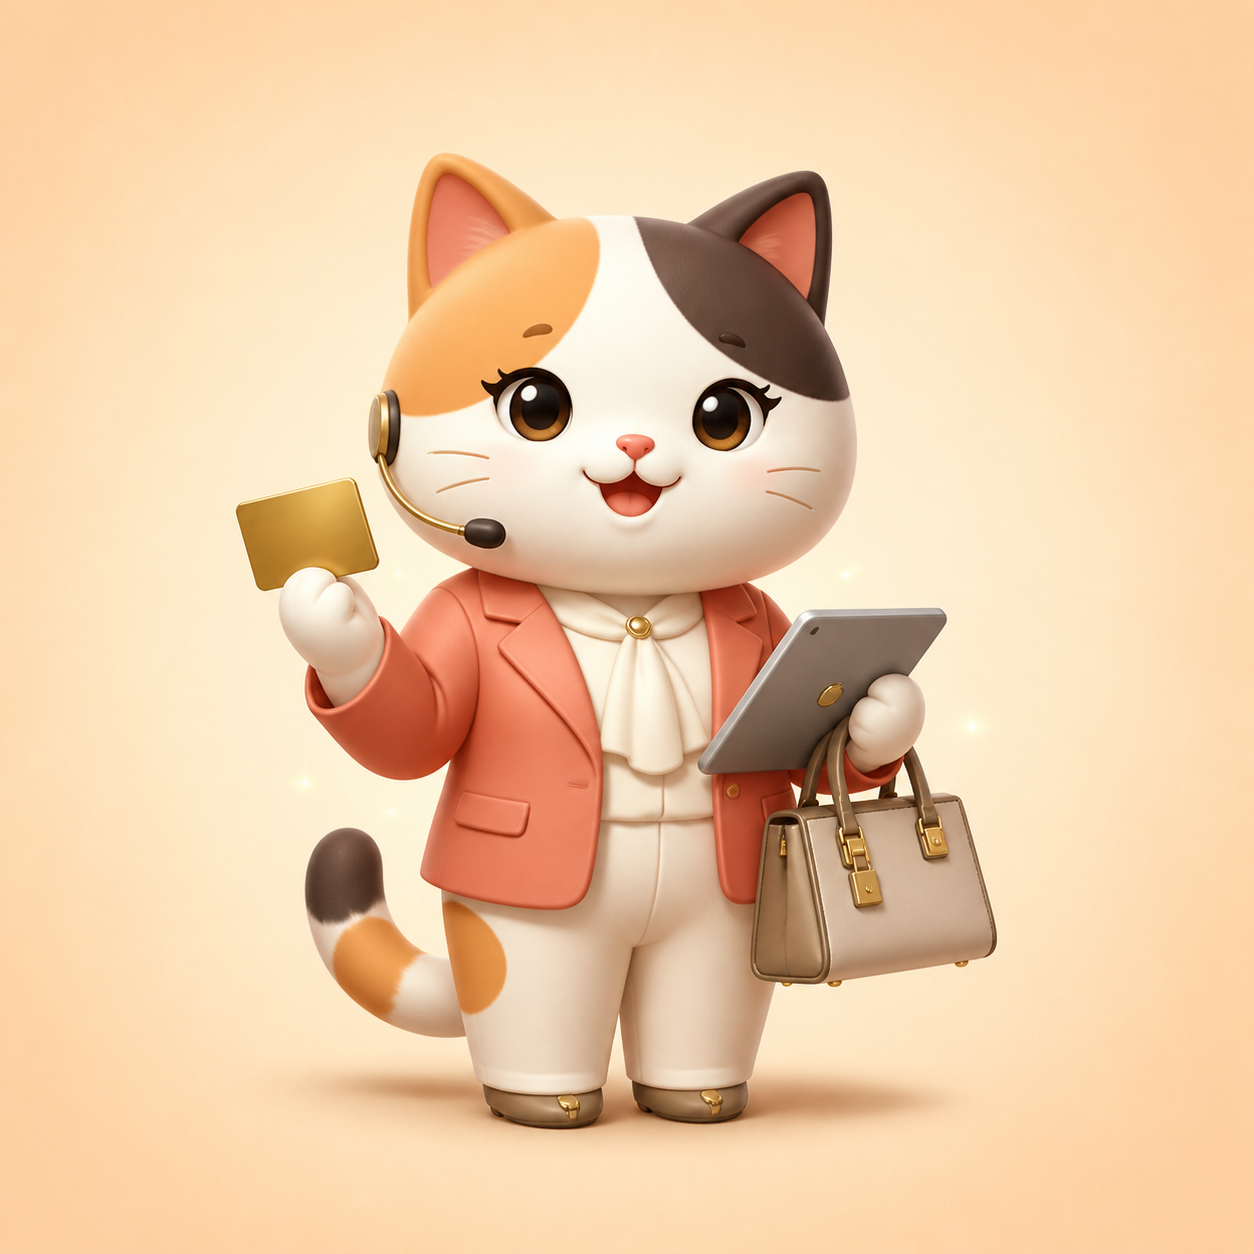
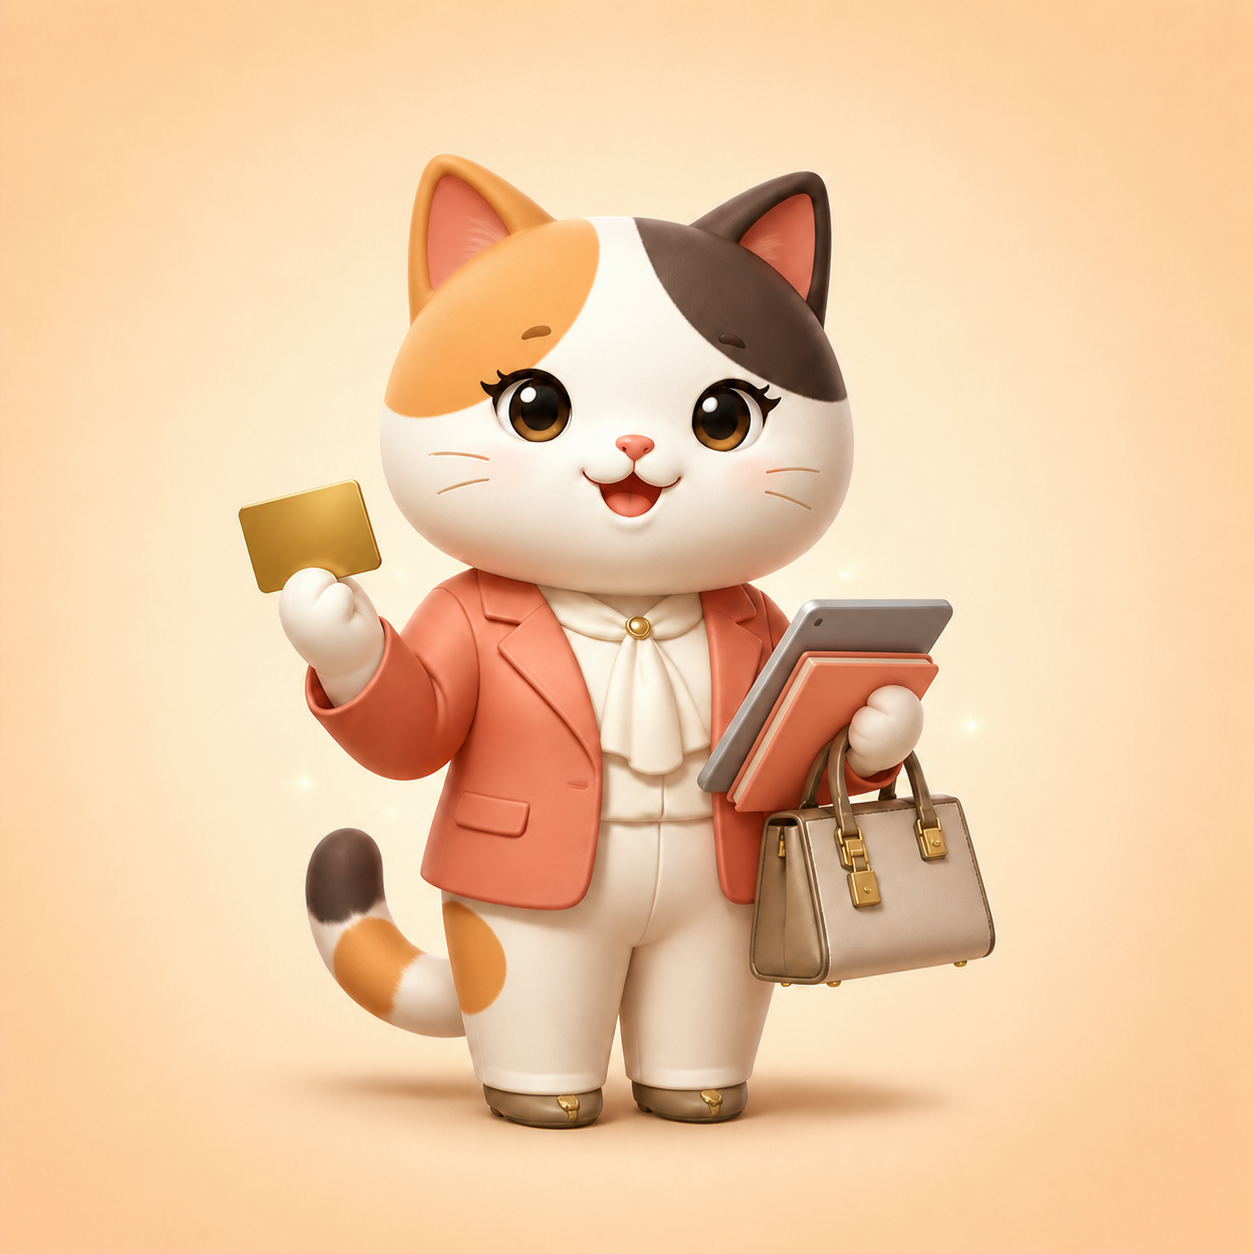
Add mascot collection and compact dashboard

diff --git a/files/index.html b/files/index.html
@@ -931,6 +931,24 @@ body{color:var(--text);background:linear-gradient(180deg,#f5f1ff 0%,#fff8f0 46%,
 .rank-evolution-char{display:block;width:100%;height:100%;object-fit:cover;border-radius:50%}
 .result-char-big .rank-evolution-char,.lvl-char .rank-evolution-char{border-radius:28px;box-shadow:0 12px 28px rgba(72,54,45,.13)}
 .step-char .rank-evolution-char{border-radius:16px}
+/* 메인 요약 영역을 압축해 핵심 메뉴가 첫 화면에 더 많이 보이게 한다. */
+#s-dashboard .dash-header{min-height:224px;padding:18px 18px 15px;border-radius:25px}
+#s-dashboard .dash-header:before{width:160px;height:160px;right:-60px;top:-58px}
+#s-dashboard .cm-premium-mascot{width:39%;right:3px;top:16px;border-radius:21px}
+#s-dashboard .dash-greeting{font-size:12px;margin-bottom:2px}#s-dashboard .dash-name{font-size:20px;margin-bottom:8px}
+#s-dashboard .rank-pill{font-size:12px;padding:6px 10px;margin-bottom:8px}
+#s-dashboard .pts-display{font-size:28px;margin-bottom:7px}#s-dashboard .pts-gauge-wrap{margin:3px 0 5px}#s-dashboard .pts-gauge-label{font-size:11px;margin-bottom:5px}#s-dashboard .pts-gauge{height:8px}
+#s-dashboard .next-level-txt{font-size:12px;line-height:1.4}#s-dashboard .notice-banner{margin-top:10px;padding:11px 14px;border-radius:17px}#s-dashboard .notice-banner strong{font-size:13px}#s-dashboard .notice-banner span{font-size:11px}
+#s-dashboard .cm-home-sections{margin-top:13px}#s-dashboard .cm-section-label{margin-top:16px}
+/* 성장가이드에서 모든 직급 캐릭터를 한눈에 비교한다. */
+.growth-collection{margin:12px;display:grid;grid-template-columns:repeat(2,minmax(0,1fr));gap:10px}
+.growth-collection-card{position:relative;overflow:hidden;min-height:206px;padding:10px;border:1px solid #e6ddea;border-radius:22px;background:linear-gradient(150deg,#fff,#fff6ed);box-shadow:0 10px 24px rgba(61,47,78,.08);text-align:center}
+.growth-collection-card.current{border:2px solid #f47a55;box-shadow:0 12px 28px rgba(232,105,65,.18)}
+.growth-collection-card img{display:block;width:100%;aspect-ratio:1;object-fit:cover;border-radius:17px;margin-bottom:7px}
+.growth-collection-card strong{display:block;font-size:14px;line-height:1.35;color:#332e3d}.growth-collection-card small{display:block;margin-top:3px;font-size:11px;color:#817989}
+.growth-collection-card .collection-status{position:absolute;top:17px;right:17px;padding:4px 7px;border-radius:999px;background:rgba(255,255,255,.88);font-size:10px;font-weight:900;color:#70647a;box-shadow:0 4px 10px rgba(53,41,68,.08)}
+.growth-collection-card.current .collection-status{background:#f47753;color:#fff}.growth-collection-card.legend{grid-column:1/-1}.growth-collection-card.legend img{width:58%;margin-left:auto;margin-right:auto}
+@media(max-width:374px){#s-dashboard .dash-header{min-height:216px;padding:16px 15px 14px}#s-dashboard .cm-premium-mascot{width:37%;right:2px;top:18px}#s-dashboard .dash-name{font-size:19px}.growth-collection{gap:8px}.growth-collection-card{min-height:190px;padding:8px}.growth-collection-card strong{font-size:13px}}
 </style></head>
 <body>
 <div class="wrap">
@@ -1049,6 +1067,8 @@ body{color:var(--text);background:linear-gradient(180deg,#f5f1ff 0%,#fff8f0 46%,
       <div class="growth-cur-pts" id="g-cur-pts">0<span>pts</span></div>
       <div class="growth-next" id="g-next-txt"></div>
     </div>
+    <div class="cm-section-label" style="margin:20px 14px 8px"><span>복고양이 성장 도감</span><small>직급별 모습을 한눈에 봐요</small></div>
+    <div class="growth-collection" id="g-collection"></div>
     <div class="journey-progress-wrap section-card">
       <div class="journey-progress-label">
         <span>전체 여정</span>
@@ -1765,6 +1785,18 @@ function showGrowth(){
   const overallPct=Math.min(100,Math.round(totalPts/10000*100));
   document.getElementById('g-overall-bar').style.width=overallPct+'%';
   document.getElementById('g-overall-pct').textContent=overallPct+'%';
+  // 다섯 단계 캐릭터 전체 도감
+  document.getElementById('g-collection').innerHTML=RANKS.map((r,i)=>{
+    const isCurrent=r.title===rank.title;
+    const isDone=totalPts>=r.min;
+    const status=isCurrent?'현재':(isDone?'달성':'목표');
+    const range=r.min===10000?'10,000pts 이상':`${r.min.toLocaleString()}~${r.max.toLocaleString()}pts`;
+    return `<div class="growth-collection-card${isCurrent?' current':''}${i===RANKS.length-1?' legend':''}">
+      <span class="collection-status">${status}</span>
+      <img src="${rankMascotSrc(r.min)}" alt="${r.title} 복고양이 캐릭터">
+      <strong>${r.emoji} ${r.title}</strong><small>${range}</small>
+    </div>`;
+  }).join('');
   // 여정 단계
   const journey=document.getElementById('g-journey');
   journey.innerHTML=[...RANKS].reverse().map(r=>{
@@ -1783,7 +1815,7 @@ function showGrowth(){
       <div class="step-char">${makeChar(r.min,52)}</div>
       <div class="step-info">
         <div class="step-rank">${r.emoji} ${r.title}</div>
-        <div class="step-pts-range">${r.min.toLocaleString()}pts ~ ${r.min===10000?'':'${r.max.toLocaleString()}pts'}</div>
+        <div class="step-pts-range">${r.min===10000?'10,000pts 이상':`${r.min.toLocaleString()}pts ~ ${r.max.toLocaleString()}pts`}</div>
       </div>
       ${statusTag}
     </div>`;

diff --git a/index.html b/index.html
@@ -931,6 +931,24 @@ body{color:var(--text);background:linear-gradient(180deg,#f5f1ff 0%,#fff8f0 46%,
 .rank-evolution-char{display:block;width:100%;height:100%;object-fit:cover;border-radius:50%}
 .result-char-big .rank-evolution-char,.lvl-char .rank-evolution-char{border-radius:28px;box-shadow:0 12px 28px rgba(72,54,45,.13)}
 .step-char .rank-evolution-char{border-radius:16px}
+/* 메인 요약 영역을 압축해 핵심 메뉴가 첫 화면에 더 많이 보이게 한다. */
+#s-dashboard .dash-header{min-height:224px;padding:18px 18px 15px;border-radius:25px}
+#s-dashboard .dash-header:before{width:160px;height:160px;right:-60px;top:-58px}
+#s-dashboard .cm-premium-mascot{width:39%;right:3px;top:16px;border-radius:21px}
+#s-dashboard .dash-greeting{font-size:12px;margin-bottom:2px}#s-dashboard .dash-name{font-size:20px;margin-bottom:8px}
+#s-dashboard .rank-pill{font-size:12px;padding:6px 10px;margin-bottom:8px}
+#s-dashboard .pts-display{font-size:28px;margin-bottom:7px}#s-dashboard .pts-gauge-wrap{margin:3px 0 5px}#s-dashboard .pts-gauge-label{font-size:11px;margin-bottom:5px}#s-dashboard .pts-gauge{height:8px}
+#s-dashboard .next-level-txt{font-size:12px;line-height:1.4}#s-dashboard .notice-banner{margin-top:10px;padding:11px 14px;border-radius:17px}#s-dashboard .notice-banner strong{font-size:13px}#s-dashboard .notice-banner span{font-size:11px}
+#s-dashboard .cm-home-sections{margin-top:13px}#s-dashboard .cm-section-label{margin-top:16px}
+/* 성장가이드에서 모든 직급 캐릭터를 한눈에 비교한다. */
+.growth-collection{margin:12px;display:grid;grid-template-columns:repeat(2,minmax(0,1fr));gap:10px}
+.growth-collection-card{position:relative;overflow:hidden;min-height:206px;padding:10px;border:1px solid #e6ddea;border-radius:22px;background:linear-gradient(150deg,#fff,#fff6ed);box-shadow:0 10px 24px rgba(61,47,78,.08);text-align:center}
+.growth-collection-card.current{border:2px solid #f47a55;box-shadow:0 12px 28px rgba(232,105,65,.18)}
+.growth-collection-card img{display:block;width:100%;aspect-ratio:1;object-fit:cover;border-radius:17px;margin-bottom:7px}
+.growth-collection-card strong{display:block;font-size:14px;line-height:1.35;color:#332e3d}.growth-collection-card small{display:block;margin-top:3px;font-size:11px;color:#817989}
+.growth-collection-card .collection-status{position:absolute;top:17px;right:17px;padding:4px 7px;border-radius:999px;background:rgba(255,255,255,.88);font-size:10px;font-weight:900;color:#70647a;box-shadow:0 4px 10px rgba(53,41,68,.08)}
+.growth-collection-card.current .collection-status{background:#f47753;color:#fff}.growth-collection-card.legend{grid-column:1/-1}.growth-collection-card.legend img{width:58%;margin-left:auto;margin-right:auto}
+@media(max-width:374px){#s-dashboard .dash-header{min-height:216px;padding:16px 15px 14px}#s-dashboard .cm-premium-mascot{width:37%;right:2px;top:18px}#s-dashboard .dash-name{font-size:19px}.growth-collection{gap:8px}.growth-collection-card{min-height:190px;padding:8px}.growth-collection-card strong{font-size:13px}}
 </style></head>
 <body>
 <div class="wrap">
@@ -1049,6 +1067,8 @@ body{color:var(--text);background:linear-gradient(180deg,#f5f1ff 0%,#fff8f0 46%,
       <div class="growth-cur-pts" id="g-cur-pts">0<span>pts</span></div>
       <div class="growth-next" id="g-next-txt"></div>
     </div>
+    <div class="cm-section-label" style="margin:20px 14px 8px"><span>복고양이 성장 도감</span><small>직급별 모습을 한눈에 봐요</small></div>
+    <div class="growth-collection" id="g-collection"></div>
     <div class="journey-progress-wrap section-card">
       <div class="journey-progress-label">
         <span>전체 여정</span>
@@ -1765,6 +1785,18 @@ function showGrowth(){
   const overallPct=Math.min(100,Math.round(totalPts/10000*100));
   document.getElementById('g-overall-bar').style.width=overallPct+'%';
   document.getElementById('g-overall-pct').textContent=overallPct+'%';
+  // 다섯 단계 캐릭터 전체 도감
+  document.getElementById('g-collection').innerHTML=RANKS.map((r,i)=>{
+    const isCurrent=r.title===rank.title;
+    const isDone=totalPts>=r.min;
+    const status=isCurrent?'현재':(isDone?'달성':'목표');
+    const range=r.min===10000?'10,000pts 이상':`${r.min.toLocaleString()}~${r.max.toLocaleString()}pts`;
+    return `<div class="growth-collection-card${isCurrent?' current':''}${i===RANKS.length-1?' legend':''}">
+      <span class="collection-status">${status}</span>
+      <img src="${rankMascotSrc(r.min)}" alt="${r.title} 복고양이 캐릭터">
+      <strong>${r.emoji} ${r.title}</strong><small>${range}</small>
+    </div>`;
+  }).join('');
   // 여정 단계
   const journey=document.getElementById('g-journey');
   journey.innerHTML=[...RANKS].reverse().map(r=>{
@@ -1783,7 +1815,7 @@ function showGrowth(){
       <div class="step-char">${makeChar(r.min,52)}</div>
       <div class="step-info">
         <div class="step-rank">${r.emoji} ${r.title}</div>
-        <div class="step-pts-range">${r.min.toLocaleString()}pts ~ ${r.min===10000?'':'${r.max.toLocaleString()}pts'}</div>
+        <div class="step-pts-range">${r.min===10000?'10,000pts 이상':`${r.min.toLocaleString()}pts ~ ${r.max.toLocaleString()}pts`}</div>
       </div>
       ${statusTag}
     </div>`;

diff --git a/files/sw.js b/files/sw.js
@@ -1,4 +1,4 @@
-const VERSION = '2026-08-07-v20';
+const VERSION = '2026-08-07-v21';
 const CACHE = 'quiz-' + VERSION;
 
 self.addEventListener('install', e => {

diff --git a/sw.js b/sw.js
@@ -1,4 +1,4 @@
-const VERSION = '2026-08-07-v20';
+const VERSION = '2026-08-07-v21';
 const CACHE = 'quiz-' + VERSION;
 
 self.addEventListener('install', e => {

diff --git a/AGENTS.md b/AGENTS.md
@@ -145,6 +145,15 @@ key, value (JSON), updated_at
 
 ## 📅 작업 이력
 
+### 2026-08-07 (성장 도감·현장상담 캐릭터·메인 압축)
+**성장 캐릭터의 전체 노출과 모바일 첫 화면 정보 밀도를 개선**
+- 성장가이드에 신입부터 전설의 상담왕까지 복고양이 5종 전체 도감 추가
+- 현재·달성·목표 상태와 직급별 포인트 구간을 캐릭터 카드에 함께 표시
+- 베테랑 캐릭터의 헤드셋을 제거하고 태블릿·현장 상담자료 중심으로 교체
+- 메인 프로필 영역 높이, 캐릭터, 글자, 여백을 축소해 핵심 메뉴가 더 빨리 보이도록 조정
+- 기존 직급·포인트·퀴즈 기능은 변경하지 않음
+- 서비스 워커 캐시 버전을 `2026-08-07-v21`로 갱신
+
 ### 2026-08-07 (복고양이 부자 성장 캐릭터 교체)
 **너구리 캐릭터를 제거하고 직급이 올라갈수록 풍요로워지는 복고양이 매니저로 교체**
 - 신입: 동전 하나와 빈 지갑, 새싹
